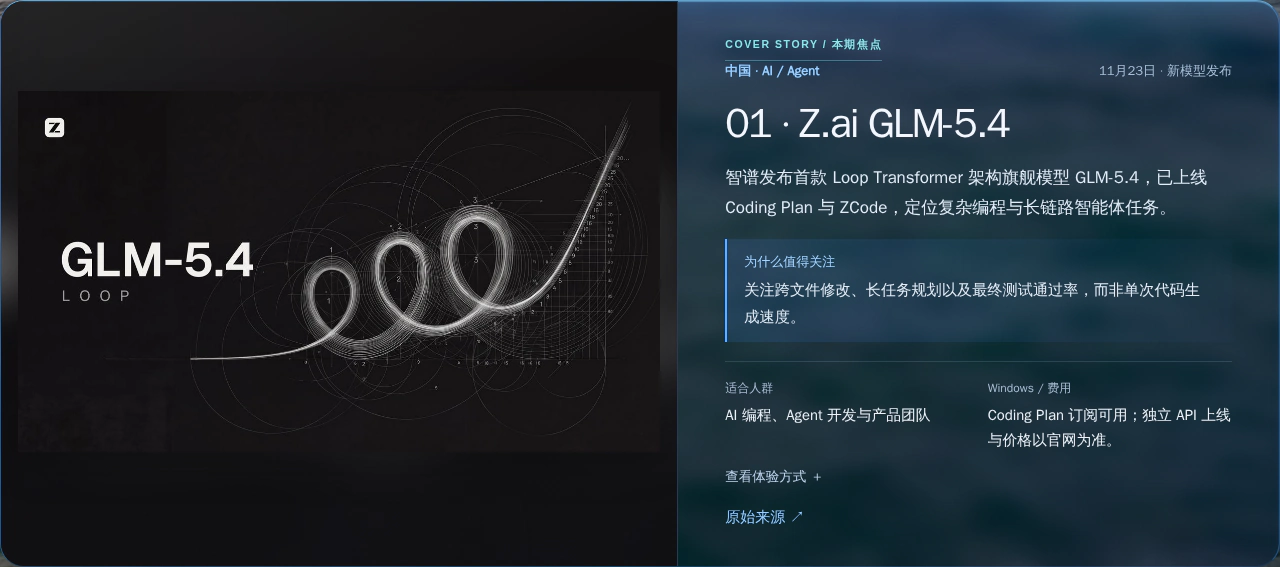
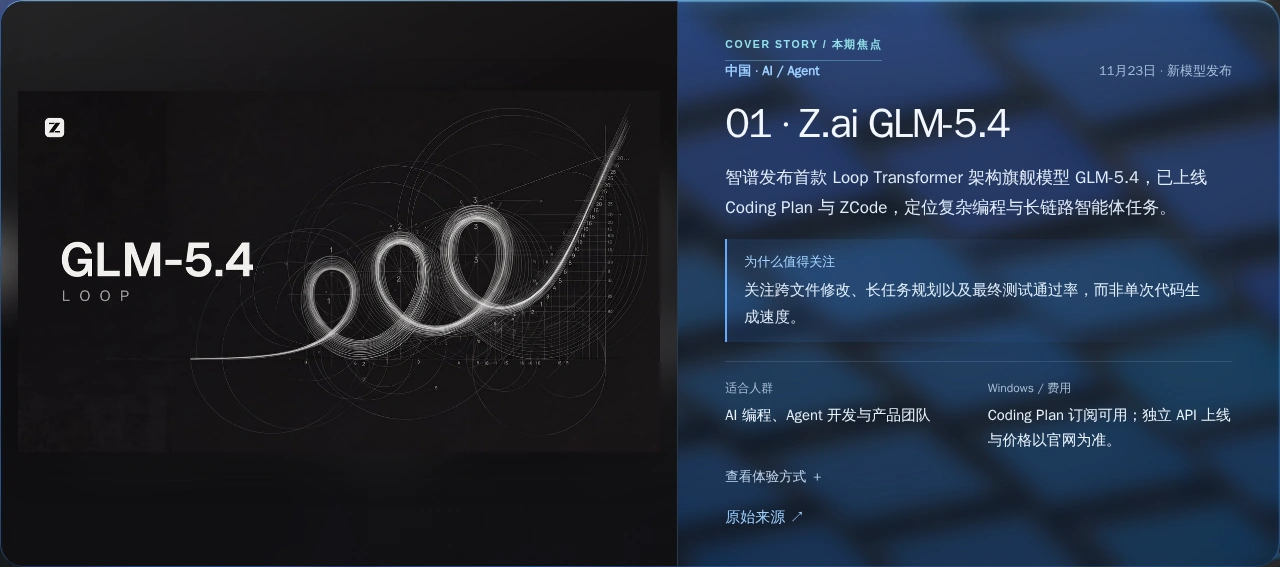
Refresh README screenshots with current technology photography

diff --git a/README.md b/README.md
@@ -12,9 +12,7 @@
 
 ## 网站效果图
 
-**首页 · 冷电蓝玻璃视觉**
-
-*效果图为此前刊期的界面记录；当前科技风背景以正式网站为准。*
+**首页 · 冷电蓝玻璃与科技光影**
 
 [![科技新品雷达首页](docs/screenshots/homepage.webp)](https://tech-radar-daily.vercel.app/)
 
